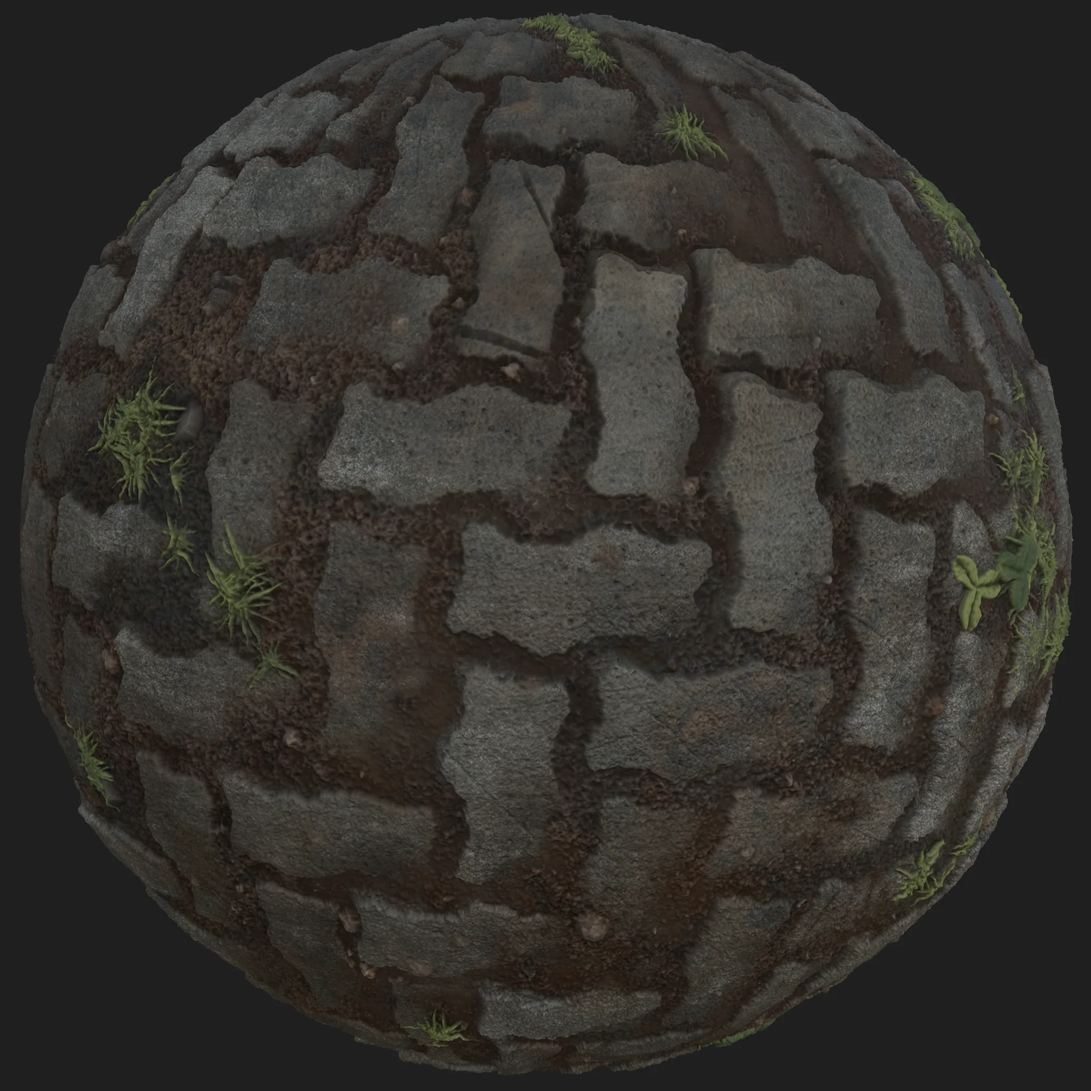
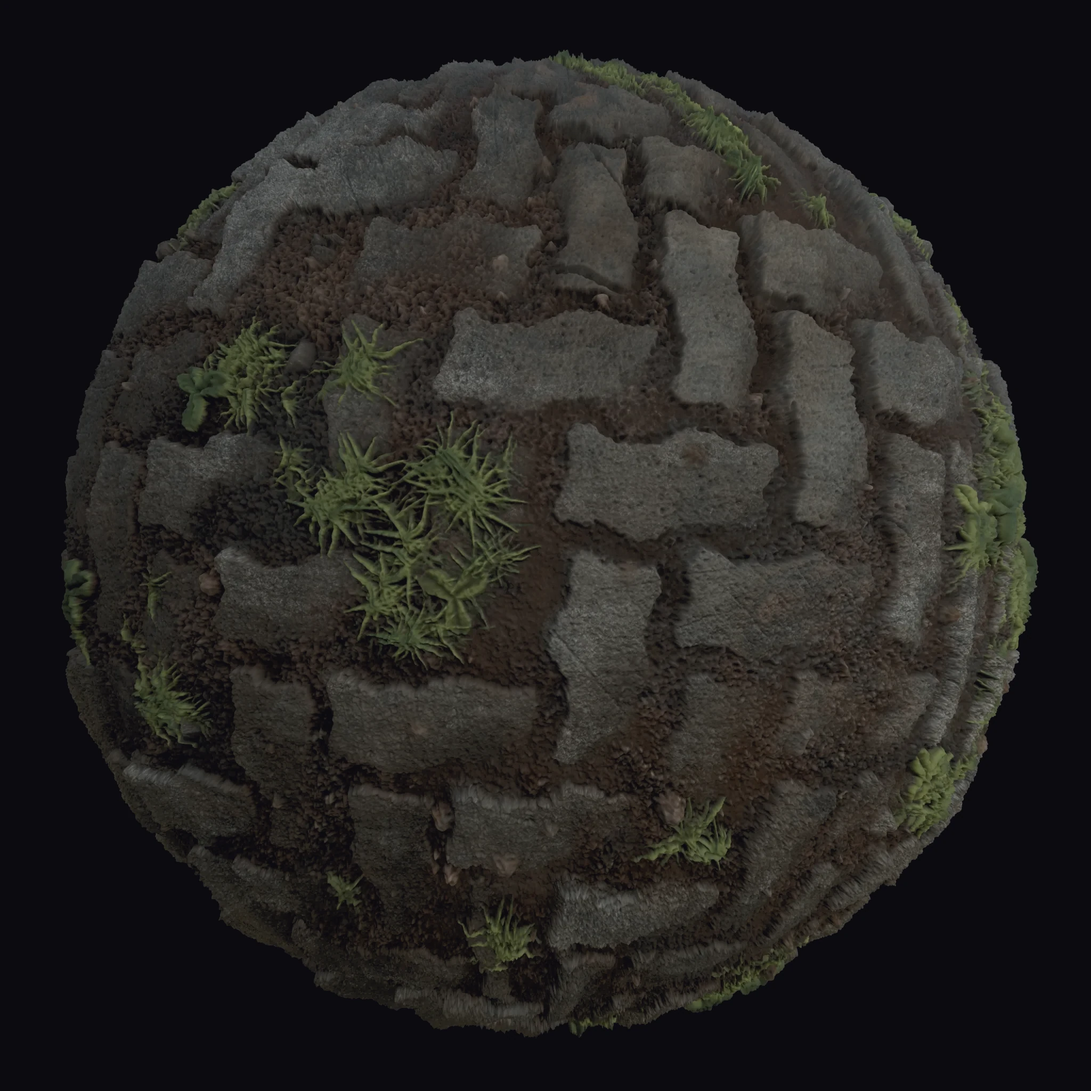
Update patterns and material showcase

diff --git a/overgrownpaver/index.html b/overgrownpaver/index.html
@@ -108,7 +108,7 @@
 
       <p>Overgrown Pavers is a material I created procedurally in Substance Designer. I built multiple tileable pattern masks in Blender and used them to construct the material, with everything from the dirt to the grass generated using Substance Designer nodes.</p>
 
-      <p>Because the material is fully procedural, the same base can be reconfigured into several different paving layouts without needing separate textures, five of which are shown below.</p>
+      <p>Because the material is fully procedural, the same base can be reconfigured into several different paving layouts without needing separate textures, six of which are shown below.</p>
     </div>
 
     <!-- Sidebar -->
@@ -219,33 +219,45 @@
         <div class="carousel-track">
 
           <div class="carousel-slide carousel-slide--contain">
-            <img src="/imgs/OvergrownPaver/Pattern1.webp" alt="Paving pattern variation one" loading="lazy">
-            <div class="slide-caption">Pattern 01</div>
+            <img src="/imgs/OvergrownPaver/PatternOverview.webp" alt="All six paving pattern variations, named" loading="lazy">
+            <div class="slide-caption">Pattern Overview</div>
             <span class="slide-index">01</span>
           </div>
 
           <div class="carousel-slide carousel-slide--contain">
-            <img src="/imgs/OvergrownPaver/Pattern2.webp" alt="Paving pattern variation two" loading="lazy">
-            <div class="slide-caption">Pattern 02</div>
+            <img src="/imgs/OvergrownPaver/Pattern1.webp" alt="Herringbone paving pattern" loading="lazy">
+            <div class="slide-caption">Herringbone</div>
             <span class="slide-index">02</span>
           </div>
 
           <div class="carousel-slide carousel-slide--contain">
-            <img src="/imgs/OvergrownPaver/Pattern3.webp" alt="Paving pattern variation three" loading="lazy">
-            <div class="slide-caption">Pattern 03</div>
+            <img src="/imgs/OvergrownPaver/Pattern2.webp" alt="Basket weave paving pattern" loading="lazy">
+            <div class="slide-caption">Basket Weave</div>
             <span class="slide-index">03</span>
           </div>
 
           <div class="carousel-slide carousel-slide--contain">
-            <img src="/imgs/OvergrownPaver/Pattern4.webp" alt="Paving pattern variation four" loading="lazy">
-            <div class="slide-caption">Pattern 04</div>
+            <img src="/imgs/OvergrownPaver/Pattern3.webp" alt="Pinwheel paving pattern" loading="lazy">
+            <div class="slide-caption">Pinwheel</div>
             <span class="slide-index">04</span>
           </div>
 
           <div class="carousel-slide carousel-slide--contain">
-            <img src="/imgs/OvergrownPaver/Pattern5.webp" alt="Paving pattern variation five" loading="lazy">
-            <div class="slide-caption">Pattern 05</div>
+            <img src="/imgs/OvergrownPaver/Pattern4.webp" alt="Column stack paving pattern" loading="lazy">
+            <div class="slide-caption">Column Stack</div>
             <span class="slide-index">05</span>
+          </div>
+
+          <div class="carousel-slide carousel-slide--contain">
+            <img src="/imgs/OvergrownPaver/Pattern5.webp" alt="Running bond paving pattern" loading="lazy">
+            <div class="slide-caption">Running Bond</div>
+            <span class="slide-index">06</span>
+          </div>
+
+          <div class="carousel-slide carousel-slide--contain">
+            <img src="/imgs/OvergrownPaver/Pattern6.webp" alt="Boxed basket weave paving pattern" loading="lazy">
+            <div class="slide-caption">Boxed Basket Weave</div>
+            <span class="slide-index">07</span>
           </div>
 
         </div><!-- /track -->
@@ -260,7 +272,7 @@
         <div class="carousel-counter">
           <span class="current counter-current">01</span>
           <span style="color: var(--border-ornate); margin: 0 6px;">·</span>
-          <span class="counter-total">05</span>
+          <span class="counter-total">07</span>
         </div>
       </div>
     </div>
